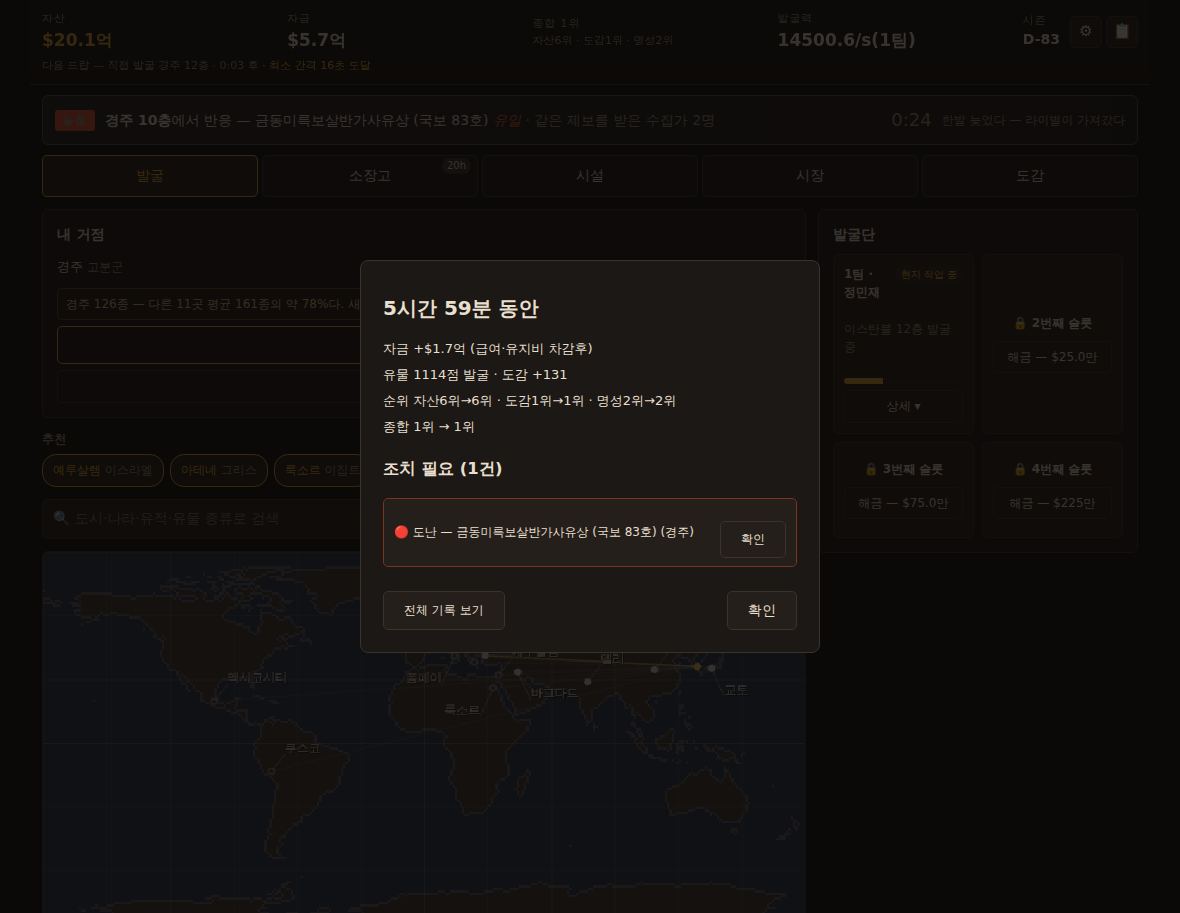
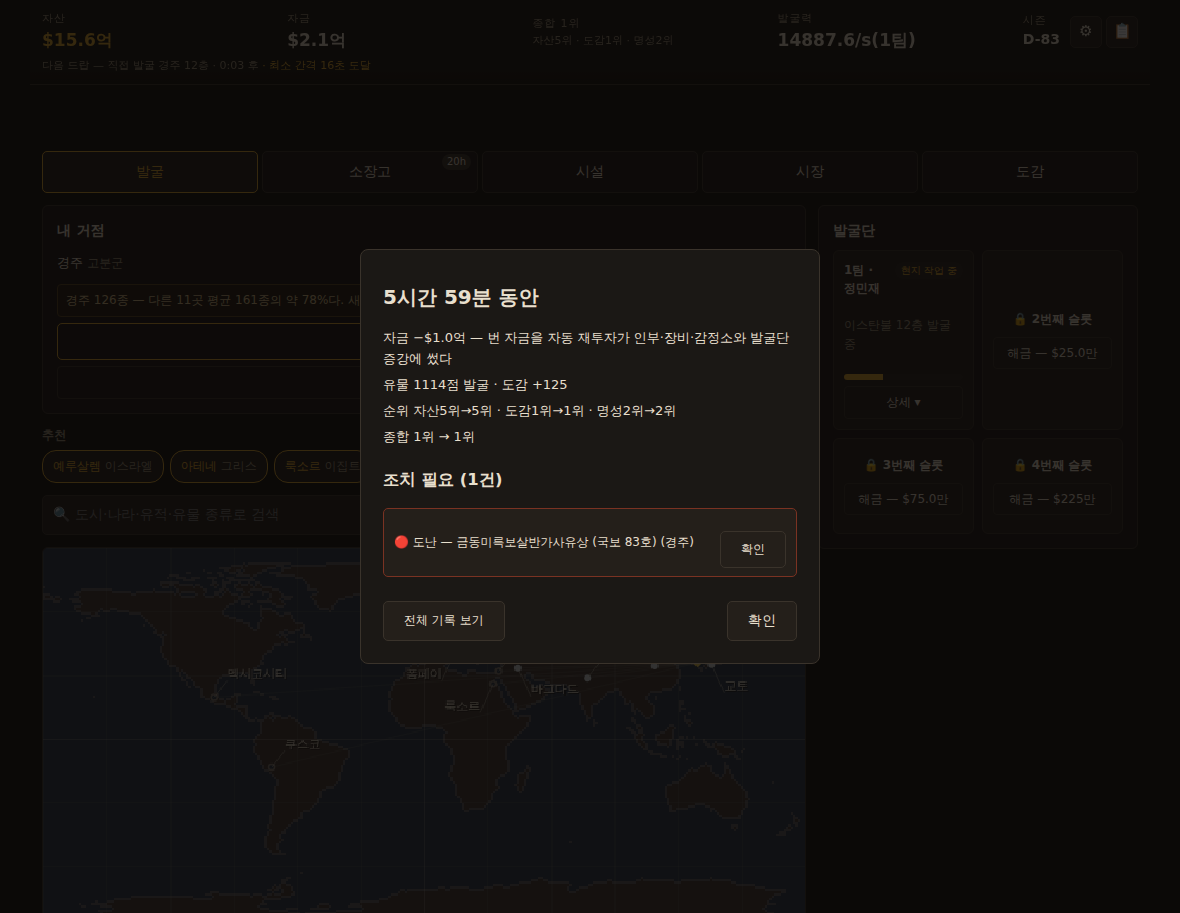
feat(relic-king): v0.6.7 — 긴급 인부로 첫 유일 제보에 대응한다
- 유일 제보에 발굴단이 없고 직접 발굴만 그 자리에 있으면 자금 30%(최소 $2만)로 대응(적중 45%)
- 첫 유일 제보 버튼 0/12 → 12/12, 운영 기준선 10/12 승
- 둘째 팀 문제는 원인이 돈 경쟁으로 밝혀졌고, 두 처방은 도감 −13%·1시간 공백 증가로 버렸다(eval §36.2)
- QA 10종·sim 48h(엔딩 16h15m)·play 130/130·smoke 통과, density 결정·패 축은 미달

Claude-Session: https://claude.ai/code/session_01G7MKR8or7ERd5J93qiG8SH

diff --git a/projects/relic-king/app/src/ui/RulesModal.tsx b/projects/relic-king/app/src/ui/RulesModal.tsx
@@ -4,7 +4,7 @@ import {
   THEFT_RECOVERY_BASE, THEFT_RECOVERY_CHANCE_CAP, THEFT_RECOVERY_WINDOW_HOURS, TIER_NAME,
   DROP_INTERVAL_CEILING_SECONDS, DROP_INTERVAL_FLOOR_SECONDS,
   TIP_DURATION_ONSITE_MAX, TIP_DURATION_ONSITE_MIN,
-  TIP_FOCUS_DIG_COST_MULT, TIP_FOCUS_DIG_HIT_CHANCE, TIP_MEAN_INTERVAL,
+  TIP_FOCUS_DIG_COST_MULT, TIP_FOCUS_DIG_HIT_CHANCE, TIP_MEAN_INTERVAL, TIP_EMERGENCY_CREW_FUNDS_SHARE, TIP_EMERGENCY_CREW_MIN_COST, TIP_EMERGENCY_CREW_HIT_CHANCE,
   TIP_MIN_RESPONSE_SECONDS, TIP_PLAYER_HIT, TIP_RIVAL_HIT,
   TIP_DECIDE_AFTER_GRACE_SECONDS, TIP_UNIQUE_ANNOUNCE_WITHIN, TIP_UNRESPONDED_UNIQUE_MULT,
   EYE_RACE_BONUS_MAX, VAULT_CARE_COST_HEADROOM, VAULT_OVERFLOW_CONDITION_DECAY_MULT,
@@ -12,7 +12,7 @@ import {
   CURATOR_RECOVERY_COEFF, tierWeights
 } from "../game/balance";
 import { rivalExpeditions } from "../game/engine";
-import { clock, withJosa } from "../game/format";
+import { clock, usd, withJosa } from "../game/format";
 import { Modal } from "./Modal";
 import type { Game } from "./useGame";
 
@@ -74,7 +74,7 @@ export function RulesModal({ game, onClose }: { game: Game; onClose: () => void 
           <li><strong>첫 승은 보장된다.</strong> 아직 한 번도 이겨 본 적이 없다면, 그 자리에 있는 한 첫 결판은 당신 것이다(유일 제외). 딱 한 번뿐이다.</li>
           <li><strong>유일은 대응해야 승산이 산다.</strong> 다투는 상대가 있는 유일 제보에 아무것도 누르지 않으면 당신의 가중이 {Math.round(TIP_UNRESPONDED_UNIQUE_MULT * 100)}%로 깎인다(경쟁 1명 기준 승산 {Math.round((TIP_PLAYER_HIT * TIP_UNRESPONDED_UNIQUE_MULT) / (TIP_PLAYER_HIT * TIP_UNRESPONDED_UNIQUE_MULT + TIP_RIVAL_HIT) * 100)}%). 금지가 아니라 불리함이다 — 경쟁자가 없는 자리라면 그냥 확보한다. <strong>단 처음 만나는 유일 제보 한 번은 대응하지 않으면 놓친다</strong>(첫 승 보장의 반대쪽 짝이다 — 게임이 첫 세션에 "먼저 도달하면 갖는다"와 "유일은 대응해야 한다"를 한 번씩 가르친다).</li>
           <li>유일이 세상에 드러나면 <strong>{TIP_UNIQUE_ANNOUNCE_WITHIN}초 안에 제보로 알린다</strong>(연달아 뜨지는 않는다). {TIER_NAME[TIP_WORLDWIDE_MIN_TIER]} 이상은 그 거점에 아무도 살지 않아도 <strong>가장 가까운 수집가가 반응한다</strong>.</li>
-          <li>on_site 팀이 있으면(또는 직접 발굴이 그 자리를 파고 있으면) 자동으로 {Math.round(TIP_PLAYER_HIT * 100)}% 확률로 판정된다 — <strong>같은 제보를 받은 라이벌도 {Math.round(TIP_RIVAL_HIT * 100)}%로 같다.</strong> 아무것도 안 누르면 공정한 레이스이고, [집중 굴착]을 누르면 {Math.round(TIP_FOCUS_DIG_HIT_CHANCE * 100)}%로 오르는 대신 그 원정의 원정비가 {TIP_FOCUS_DIG_COST_MULT}배가 된다. <strong>진귀·국보 제보는 현지 팀이 있으면 [집중 굴착]이 자동으로 걸리고, 유일만 직접 누른다.</strong> 한 원정의 배수는 곱해지지 않고 가장 큰 것 하나만 붙으며(집중 {TIP_FOCUS_DIG_COST_MULT}배·급파 {EMERGENCY_DISPATCH_COST_MULT}배), 정산액은 보유 자금을 넘지 않는다.</li>
+          <li>on_site 팀이 있으면(또는 직접 발굴이 그 자리를 파고 있으면) 자동으로 {Math.round(TIP_PLAYER_HIT * 100)}% 확률로 판정된다 — <strong>같은 제보를 받은 라이벌도 {Math.round(TIP_RIVAL_HIT * 100)}%로 같다.</strong> 아무것도 안 누르면 공정한 레이스이고, [집중 굴착]을 누르면 {Math.round(TIP_FOCUS_DIG_HIT_CHANCE * 100)}%로 오르는 대신 그 원정의 원정비가 {TIP_FOCUS_DIG_COST_MULT}배가 된다. <strong>진귀·국보 제보는 현지 팀이 있으면 [집중 굴착]이 자동으로 걸리고, 유일만 직접 누른다.</strong> 한 원정의 배수는 곱해지지 않고 가장 큰 것 하나만 붙으며(집중 {TIP_FOCUS_DIG_COST_MULT}배·급파 {EMERGENCY_DISPATCH_COST_MULT}배), 정산액은 보유 자금을 넘지 않는다. <strong>유일 제보에 발굴단이 없고 직접 발굴만 그 자리에 있으면 [긴급 인부]로 대응한다</strong> — 값은 현재 자금의 {Math.round(TIP_EMERGENCY_CREW_FUNDS_SHARE * 100)}%(최소 {usd(TIP_EMERGENCY_CREW_MIN_COST)})이고, 적중은 {Math.round(TIP_EMERGENCY_CREW_HIT_CHANCE * 100)}%다(현지 팀의 [집중 굴착]은 {Math.round(TIP_FOCUS_DIG_HIT_CHANCE * 100)}%).</li>
           <li>[급파]는 유휴 발굴단을 압축 이동시간 {EMERGENCY_DISPATCH_MAX_REACH_HOURS}시간 이내인 거점에 즉시 출발시킨다. 원정비 {EMERGENCY_DISPATCH_COST_MULT}배·미스헵 확률 {EMERGENCY_DISPATCH_MISHAP_MULT}배가 붙는다. 배너가 사라진 뒤에도 도착하면 판정은 그대로 유효하다 — 세계 재고가 남아 있는지가 유일한 기준이다.</li>
           <li><strong>라이벌은 제보 레이스 밖에서 유일 유물을 가져가지 못한다.</strong> 오프라인 중에는 진귀 이하만 가져간다 — 영구 상실은 당신이 그 자리에 있었을 때만 일어난다.</li>
         </ul>

diff --git a/projects/relic-king/app/src/game/engine.ts b/projects/relic-king/app/src/game/engine.ts
@@ -30,7 +30,7 @@ import {
   TEAM_AUTO_GEAR_MIN_FUNDS, TEAM_AUTO_UPGRADE_SLOT_RESERVE_MULT, TEAM_AUTO_WORKER_MIN_FUNDS,
   TIER_STOCK_PER_SPECIES, TIP_DECIDE_AFTER_GRACE_SECONDS, TIP_DURATION_ONSITE_MAX, TIP_DURATION_ONSITE_MIN,
   TIP_FIRST_DELAY, TIP_FIRST_UNIQUE_TAUGHT, TIP_FIRST_WIN_GUARANTEED, TIP_UNIQUE_PRIORITY,
-  TIP_UNIQUE_REQUIRES_RESPONSE,
+  TIP_UNIQUE_REQUIRES_RESPONSE, TIP_EMERGENCY_CREW_FUNDS_SHARE, TIP_EMERGENCY_CREW_MIN_COST, TIP_EMERGENCY_CREW_HIT_CHANCE,
   TIP_UNIQUE_ANNOUNCE_WITHIN, TIP_UNRESPONDED_UNIQUE_MULT, TIP_WORLDWIDE_MIN_TIER,
   TIP_FOCUS_DIG_COST_MULT, TIP_FOCUS_DIG_HIT_CHANCE, TIP_MEAN_INTERVAL, TIP_PLAYER_HIT,
   TIP_MIN_RESPONSE_SECONDS, TIP_RETRY_INTERVAL, TIP_RIVAL_HIT, TIP_TIER_WEIGHT,
@@ -976,7 +976,7 @@ function rollDrop(
         owner === "player"
           ? Math.min(
               EYE_HIT_CHANCE_CAP,
-              (raceTarget.focused ? TIP_FOCUS_DIG_HIT_CHANCE : TIP_PLAYER_HIT) *
+              (raceTarget.focused ? (w.tip?.crewed && w.tip.artifactId === raceTarget.artifactId ? TIP_EMERGENCY_CREW_HIT_CHANCE : TIP_FOCUS_DIG_HIT_CHANCE) : TIP_PLAYER_HIT) *
                 uniquePenalty * eyeRaceMult(w, site)
             )
           : TIP_RIVAL_HIT;
@@ -1463,6 +1463,32 @@ export function focusDig(w: World, teamId: string): boolean {
   if (!team || team.status !== "on_site" || team.targetSite !== w.tip.site) return false;
   w.tip.focused = true;
   applyTipCostMult(team, TIP_FOCUS_DIG_COST_MULT);
+  return true;
+}
+
+/**
+ * 긴급 인부의 값과 쓸 수 있는지(v0.6.7, `TIP_EMERGENCY_CREW_FUNDS_SHARE` 주석 참조). 조건은 셋이다 —
+ * 결판 전인 **유일** 제보이고, 아직 대응하지 않았고, 직접 발굴이 그 거점의 그 층에 닿아 있으며,
+ * 그 자리에 현지 발굴단이 없다(있으면 [집중 굴착]이 그 몫이다). 배너·정책·계측이 이 함수 하나를 쓴다.
+ */
+export function emergencyCrewOffer(w: World): { cost: number; affordable: boolean } | null {
+  const tip = w.tip;
+  if (!tip || tip.resolved || tip.focused) return null;
+  if (ARTIFACT_BY_ID[tip.artifactId].tier !== 4) return null;
+  if (w.activeSite !== tip.site || w.sites[tip.site].layer < tip.layer) return null;
+  if (w.teams.some((t) => t.status === "on_site" && t.targetSite === tip.site)) return null;
+  const cost = Math.max(TIP_EMERGENCY_CREW_MIN_COST, Math.round(w.funds * TIP_EMERGENCY_CREW_FUNDS_SHARE));
+  return { cost, affordable: w.funds >= cost };
+}
+
+/** 긴급 인부를 부른다 — 자금을 내고 이 유일 제보에 대응한 것으로 인정받는다(적중 `TIP_EMERGENCY_CREW_HIT_CHANCE`) */
+export function hireEmergencyCrew(w: World): boolean {
+  const offer = emergencyCrewOffer(w);
+  if (!offer || !offer.affordable || !w.tip) return false;
+  w.funds -= offer.cost;
+  w.tip.focused = true;
+  w.tip.crewed = true;
+  log(w, "system", `긴급 인부를 불렀다(${usd(offer.cost)}) — ${withJosa(ARTIFACT_BY_ID[w.tip.artifactId].name, "을를")} 직접 쫓는다.`);
   return true;
 }
 
@@ -2456,7 +2482,7 @@ export function tipRaceOdds(w: World, tip: Tip): TipRaceOdds {
   const eye = eyeRaceMult(w, tip.site);
   const pw =
     racing
-      ? (tip.focused ? TIP_FOCUS_DIG_HIT_CHANCE : TIP_PLAYER_HIT) *
+      ? (tip.focused ? (tip.crewed ? TIP_EMERGENCY_CREW_HIT_CHANCE : TIP_FOCUS_DIG_HIT_CHANCE) : TIP_PLAYER_HIT) *
         (firstUniqueLesson ? 0 : needsResponse ? TIP_UNRESPONDED_UNIQUE_MULT : 1) * eye
       : 0;
   const contenders = tipRivalContenders(w, tip).length;
@@ -2502,7 +2528,7 @@ function decideTipRace(w: World, rng: Rng, report: StepReport) {
       ? 0
       : TIP_UNRESPONDED_UNIQUE_MULT;
   const pw = racing
-    ? (tip.focused ? TIP_FOCUS_DIG_HIT_CHANCE : TIP_PLAYER_HIT) * uniquePenalty * eyeRaceMult(w, tip.site)
+    ? (tip.focused ? (tip.crewed ? TIP_EMERGENCY_CREW_HIT_CHANCE : TIP_FOCUS_DIG_HIT_CHANCE) : TIP_PLAYER_HIT) * uniquePenalty * eyeRaceMult(w, tip.site)
     : 0;
   // 라이벌 가중은 **머릿수**다 — 유예 전 드랍 판정에서 라이벌 k명이 각자 굴리는
   // 것과 같은 셈이고, 그래서 제보마다 경쟁도가 다르다(1명이면 반반, 4명이면 20%).

diff --git a/projects/relic-king/app/src/game/balance.ts b/projects/relic-king/app/src/game/balance.ts
@@ -384,7 +384,9 @@ export const TIP_UNRESPONDED_UNIQUE_MULT = 1 / 3;
  * 게임"이라는 걸 배우지 못한 채 첫 세션을 끝낸다.
  *
  * 숨기지 않는다: 그 배너는 "대응하지 않으면 놓친다"를 그대로 적고, [집중 굴착]·
- * [급파] 버튼이 같은 줄에 있다. 누르면 정상 승산(60% 대 라이벌 머릿수×28%)으로
+ * [급파]·[긴급 인부] 버튼이 같은 줄에 있다. **(v0.6.7 정정)** v0.6.6까지는 첫 유일 제보 순간에
+ * 발굴단이 전부 이동 중이라 앞의 두 버튼이 뜨지 않았다 — 24/24 시드에서 버튼 없이 졌다
+ * (`notes/v066-midpass-review.md` §1.1). 직접 발굴의 [긴급 인부]가 그 빈자리를 채운다. 누르면 정상 승산(60% 대 라이벌 머릿수×28%)으로
  * 겨루고, 실제로 이길 수 있다 — **결과가 정해진 연출이 아니라 대응이 필요한 판**이다.
  */
 export const TIP_FIRST_UNIQUE_TAUGHT = true;
@@ -517,6 +519,27 @@ export const TIP_DURATION_ONSITE_MIN = 60;
 export const TIP_DURATION_ONSITE_MAX = 150;
 export const TIP_FOCUS_DIG_HIT_CHANCE = 0.60;
 export const TIP_FOCUS_DIG_COST_MULT = 2.0;
+/**
+ * **긴급 인부**(v0.6.7, `notes/v066-midpass-review.md` §1.1) — 유일(T4) 제보가 **직접 발굴이 파고
+ * 있는 거점**에 떴는데 그 자리에 발굴단이 없을 때, 자금을 내고 대응으로 인정받는다.
+ *
+ * 왜 필요한가. 유일은 대응해야 가진다(`TIP_UNIQUE_REQUIRES_RESPONSE`). 그런데 대응 수단이
+ * 발굴단([집중 굴착]·[급파])뿐이라, 첫 유일 제보(3분 9초~6분 24초)에는 발굴단이 전부 이동 중이어서
+ * **24/24 시드에서 버튼 없이 졌다.** `TIP_FIRST_UNIQUE_TAUGHT`가 가르치려던 "대응하면 이길 수 있다"가
+ * 성립할 자리가 없었다.
+ *
+ * 값은 **현재 자금의 비율**이다. 쌓아 둔 돈이 많을수록 비싸고, 모자라면 소장품을 팔아야 한다 —
+ * "팔면 강해지고 순위는 떨어진다"는 핵심 딜레마를 가장 무거운 순간에 건다. 최소액은 첫 5분
+ * 자금 수준(수만 달러)에 맞췄다. 효과는 [집중 굴착]과 같다(적중 60%, 대응 인정).
+ */
+export const TIP_EMERGENCY_CREW_FUNDS_SHARE = 0.3;
+export const TIP_EMERGENCY_CREW_MIN_COST = 20_000;
+/**
+ * 긴급 인부의 적중(v0.6.7). [집중 굴착](60%)보다 낮다 — 임시로 부른 인부는 발굴단이 아니다.
+ * 60%로 두면 첫 10분에 한 번도 지지 않는 시드가 생겼고(12시드 중 1), 무엇보다 "발굴단을 곁에
+ * 두는 것"의 값이 사라진다. 28%(아무것도 안 함)와 60%(현지 팀 집중) 사이에 둔다.
+ */
+export const TIP_EMERGENCY_CREW_HIT_CHANCE = 0.45;
 export const EMERGENCY_DISPATCH_MAX_REACH_HOURS = 4;
 export const EMERGENCY_DISPATCH_TRAVEL_MULT = 1 / 3;
 export const EMERGENCY_DISPATCH_COST_MULT = 3.0;

diff --git a/projects/relic-king/app/src/sim/qa_expedition.ts b/projects/relic-king/app/src/sim/qa_expedition.ts
@@ -12,8 +12,7 @@
  */
 import { EXPEDITION_ONSITE_RATIO, EXPEDITION_SPEED_KMH, distanceKm } from "../game/balance";
 import {
-  advance, buyTeamGear, buyTeamWorker, createTeam, createWorld, dispatchExpedition, focusDig, hireForeman
-} from "../game/engine";
+  advance, buyTeamGear, buyTeamWorker, createTeam, createWorld, dispatchExpedition, focusDig, hireForeman, emergencyCrewOffer, hireEmergencyCrew } from "../game/engine";
 import { ARTIFACTS } from "../game/artifacts";
 import type { SiteId, Tip, World } from "../game/types";
 
@@ -206,6 +205,28 @@ console.log("\n──────── 제보 대응 배수는 곱해지지 않
   advance(w, 30, false, 10);
   check(`자금 0으로 귀환 — 원정비 정산 뒤에도 자금이 음수가 아니다(실측 $${Math.round(w.funds)})`,
     team.status === "idle" && w.funds >= 0);
+}
+
+// ── 긴급 인부(v0.6.7, `notes/v066-midpass-review.md` §1.1) ──
+console.log("\n──────── 긴급 인부 — 발굴단 없는 유일 제보에 직접 발굴로 대응한다 ────────");
+{
+  const w = createWorld();
+  const home = w.activeSite;
+  const a = ARTIFACTS.find((x) => x.site === home && x.tier === 4)!;
+  w.sites[home].layer = Math.max(w.sites[home].layer, a.minLayer);
+  for (const t of w.teams) t.status = "traveling_out";
+  w.tip = { artifactId: a.id, site: home, layer: a.minLayer, remain: 120, rivals: [], focused: false, openedAt: w.t, resolved: null };
+  w.funds = 10_000;
+  const poor = emergencyCrewOffer(w);
+  check(`자금 $1만 — 제안은 뜨지만 살 수 없다(최소 $${poor?.cost})`, !!poor && !poor.affordable && !hireEmergencyCrew(w));
+  w.funds = 1_000_000;
+  const offer = emergencyCrewOffer(w)!;
+  check(`자금 $100만 — 값은 자금의 30%다(실측 $${offer.cost})`, offer.affordable && offer.cost === 300_000);
+  check("긴급 인부를 부르면 대응으로 인정되고 자금이 빠진다",
+    hireEmergencyCrew(w) && !!w.tip?.focused && !!w.tip?.crewed && w.funds === 700_000);
+  check("한 번 부르면 다시 제안하지 않는다", emergencyCrewOffer(w) === null);
+  w.tip = { ...w.tip!, focused: false, crewed: false, artifactId: ARTIFACTS.find((x) => x.site === home && x.tier === 3)!.id };
+  check("유일이 아니면 제안하지 않는다", emergencyCrewOffer(w) === null);
 }
 
 console.log(failed === 0 ? "\n✅ qa_expedition 전체 통과" : `\n❌ qa_expedition ${failed}건 실패`);

diff --git a/projects/relic-king/app/src/sim/density.ts b/projects/relic-king/app/src/sim/density.ts
@@ -48,8 +48,7 @@ import { ARTIFACT_BY_ID } from "../game/artifacts";
 import {
   advance, codexProgress, createPersistentRecord, createWorld, digPower, fullRanking, ownedSiteCap,
   grantStartingTeam, isGhostId,
-  playerCanReactAt, runAutoRoutine, teamHomeSite, tipPoolStages
-} from "../game/engine";
+  playerCanReactAt, runAutoRoutine, teamHomeSite, tipPoolStages, emergencyCrewOffer } from "../game/engine";
 import { travelHoursOneWay } from "../game/expedition";
 import { distanceKm } from "../game/sites";
 import { duration } from "../game/format";
@@ -145,8 +144,10 @@ type TipLike = Tip & { autoFocused?: boolean };
  * - 레거시 직접 발굴만 그 자리에 있으면 버튼이 없다(추격 중 통보).
  * - 결판이 난 배너(`resolved`)에는 버튼이 없다.
  */
-export function tipButton(w: World, tip: TipLike): "focus" | "emergency" | null {
+export function tipButton(w: World, tip: TipLike): "focus" | "emergency" | "crew" | null {
   if (tip.resolved) return null;
+  // 긴급 인부(v0.6.7) — 유일 제보에 발굴단이 없고 직접 발굴만 그 자리에 있을 때. 살 수 있을 때만 버튼이다.
+  if (w.tip === tip) { const crew = emergencyCrewOffer(w); if (crew?.affordable) return "crew"; }
   const onSite = w.teams.some((t) => t.status === "on_site" && t.targetSite === tip.site);
   if (onSite) return tip.autoFocused ? null : "focus";
   const dist = distanceKm(teamHomeSite(w), tip.site);
@@ -244,7 +245,7 @@ class DecisionWatcher {
         this.tipCounted = true;
         const tier = ARTIFACT_BY_ID[tip.artifactId]?.tier ?? 0;
         // 진귀 이하의 [집중 굴착]은 원정당 한 번 누르면 모든 축에서 이긴다(§5.2)
-        const kind: DecisionKind = button === "emergency" || tier >= 4 ? "tip" : "tipFocus";
+        const kind: DecisionKind = button === "emergency" || button === "crew" || tier >= 4 ? "tip" : "tipFocus";
         this.push(t, kind, this.tipLegacy, `${tipDetail(tip)} [${button === "focus" ? "집중 굴착" : "급파"}]`);
         this.tipLegacy = false;
       }

diff --git a/projects/relic-king/app/src/ui/TipBanner.tsx b/projects/relic-king/app/src/ui/TipBanner.tsx
@@ -2,12 +2,12 @@ import { useEffect, useRef, useState } from "react";
 import { ARTIFACT_BY_ID } from "../game/artifacts";
 import {
   EMERGENCY_DISPATCH_MAX_REACH_HOURS, EMERGENCY_DISPATCH_TRAVEL_MULT, SITE_BY_ID, TIER_NAME,
-  TIP_MIN_RESPONSE_SECONDS, TIP_PLAYER_HIT
+  TIP_MIN_RESPONSE_SECONDS, TIP_PLAYER_HIT, TIP_EMERGENCY_CREW_HIT_CHANCE
 } from "../game/balance";
-import { teamHomeSite, tipRaceOdds } from "../game/engine";
+import { emergencyCrewOffer, teamHomeSite, tipRaceOdds } from "../game/engine";
 import { travelHoursOneWay } from "../game/expedition";
 import { distanceKm } from "../game/sites";
-import { clock } from "../game/format";
+import { clock, usd } from "../game/format";
 import { TIER_COLOR } from "../render/palette";
 import type { ExpeditionTeam, Foreman, Tip, World } from "../game/types";
 import { playCue } from "./sound";
@@ -146,6 +146,23 @@ function TipAction({ game, tip, big }: { game: Game; tip: Tip; big?: boolean }) 
         급파
       </button>
     );
+  }
+  // 유일인데 발굴단이 없고 직접 발굴만 그 자리에 있으면 긴급 인부로 대응한다(v0.6.7).
+  // 값은 현재 자금의 비율이라, 모자라면 소장품을 팔아야 한다 — 그 사실을 그대로 적는다.
+  const crew = emergencyCrewOffer(game.world);
+  if (crew) {
+    return crew.affordable ? (
+      <button type="button" className={cls} onClick={game.hireEmergencyCrew}>
+        긴급 인부 {usd(crew.cost)}
+      </button>
+    ) : (
+      <span className="tip-crew-short small">
+        긴급 인부 {usd(crew.cost)} — 자금이 {usd(crew.cost - game.world.funds)} 모자란다. 소장품을 팔면 부를 수 있다
+      </span>
+    );
+  }
+  if (tip.focused && legacyOnSite && ARTIFACT_BY_ID[tip.artifactId].tier === 4) {
+    return <span className="tip-racing small">긴급 인부가 쫓는 중 — 적중 {Math.round(TIP_EMERGENCY_CREW_HIT_CHANCE * 100)}%</span>;
   }
   if (legacyOnSite) {
     return (

diff --git a/projects/relic-king/app/src/sim/policy.ts b/projects/relic-king/app/src/sim/policy.ts
@@ -16,7 +16,7 @@ import {
 import {
   advance, auctionHouseOf, buildAuctionHouse, buildMuseum, buyHumidityLevel, buyMuseumMarketing, buyRestorationLevel, buySecurityLevel, buyTeamGear, buyTeamWorker, buyVaultLevel, codexScore, createTeam, digPower, dispatchExpedition, displayArtifact, hireAuctioneer, hireCurator, hireForeman, listAtAuction, museumOf, museumSlotCount, runAutoRoutine, sellArtifactCopies, switchSite, teamHomeSite, unlockSite, unlockTeamSlot, upgradeAuctionGrade, upgradeMuseumGrade, spareVaultItems } from "../game/engine";
 // 제보 대응(v0.6.6)은 따로 가져온다 — 위 import 줄은 시설·경제 쪽 변경이 자주 닿는다.
-import { emergencyDispatch, focusDig } from "../game/engine";
+import { emergencyDispatch, focusDig, hireEmergencyCrew } from "../game/engine";
 import type { SiteId, World } from "../game/types";
 
 export const STEP_EARLY = 2; // 초반 1200초(드랍 간격·20분 통계)는 v0.1과 동일한 정밀도를 유지한다
@@ -316,6 +316,8 @@ export function respondToUniqueTip(w: World) {
   for (const t of w.teams) {
     if (t.status === "idle" && emergencyDispatch(w, t.id)) return;
   }
+  // 발굴단이 닿지 않으면 직접 발굴로 쫓는다 — 긴급 인부(v0.6.7). 살 수 있을 때만 부른다.
+  hireEmergencyCrew(w);
 }
 
 /**
@@ -337,6 +339,8 @@ export function actExpansion(w: World) {
   const tip = w.tip;
   if (tip && w.sites[tip.site].unlocked && w.sites[tip.site].layer >= tip.layer) switchSite(w, tip.site);
   else switchSite(w, bestSite(w));
+  // 직접 발굴을 제보 거점으로 옮긴 뒤에야 긴급 인부 자격이 생긴다 — 한 번 더 본다(이미 대응했으면 아무것도 안 한다).
+  respondToUniqueTip(w);
 
   ensureTeams(w);
   redispatchIdleTeams(w);

diff --git a/projects/relic-king/app/src/ui/useGame.ts b/projects/relic-king/app/src/ui/useGame.ts
@@ -5,7 +5,7 @@ import {
   advance, applyOffline, auctionSpares, blindSell, blindSellAll, buyBlackMarketListing, buyGear,
   buyHumidityLevel, buyLab, buyMuseumMarketing, buyRestorationLevel, buySecurityLevel, buyTeamGear, buyTeamWorker,
   buyVaultLevel, buyWorker, buildAuctionHouse, buildMuseum, click, createPersistentRecord, createTeam,
-  createWorld, dispatchExpedition, displayArtifact, emergencyDispatch, focusDig, fullRanking, sampleRanks,
+  createWorld, dispatchExpedition, displayArtifact, emergencyDispatch, focusDig, fullRanking, hireEmergencyCrew, sampleRanks,
   hireAuctioneer, hireCurator, hireForeman, listAtAuction, listManyAtAuction, relocateBase, runAutoRoutine, sellArtifactCopies,
   sellSpares, sellTierAtMost, sellVaultItems, setRoutine, switchSite, undisplayArtifact, unlockSite, unlockTeamSlot,
   upgradeAuctionGrade, upgradeMuseumGrade
@@ -372,6 +372,7 @@ export function useGame() {
     dispatch: (teamId: string, target: SiteId) => act((w) => dispatchExpedition(w, teamId, target)),
     emergencyDispatch: (teamId: string) => act((w) => emergencyDispatch(w, teamId)),
     focusDig: (teamId: string) => act((w) => focusDig(w, teamId)),
+    hireEmergencyCrew: () => act(hireEmergencyCrew),
     setRoutine: (teamId: string, enabled: boolean, target?: SiteId | "auto") =>
       act((w) => setRoutine(w, teamId, enabled, target)),
 

diff --git a/projects/relic-king/app/src/game/types.ts b/projects/relic-king/app/src/game/types.ts
@@ -280,6 +280,8 @@ export type Tip = {
    *  자동으로 켜진다(`settings.autoFocusTips`). 유일은 늘 수동이라 여기 걸리지 않는다.
    *  `focused`와 같이 켜지며, 화면이 "눌렀다"와 "자동으로 걸렸다"를 가르는 데 쓴다. */
   autoFocused?: boolean;
+  /** 긴급 인부로 대응했는가(v0.6.7) — `focused`와 같이 켜지고, 적중은 `TIP_EMERGENCY_CREW_HIT_CHANCE`다 */
+  crewed?: boolean;
   /** 배너가 뜬 시각(world.t, 초). `TIP_MIN_RESPONSE_SECONDS` 반응 유예의 기준이다(v0.6) */
   openedAt: number;
   /** 결판이 난 뒤의 상태. 나도 배너는 수명을 다 산다 — 결과를 보여 주고 닫힌다

diff --git a/projects/relic-king/eval.md b/projects/relic-king/eval.md
@@ -3452,3 +3452,60 @@ C축(각자 수식에 붙었는가)은 첫 판에서도 통과였다. 그런데 
 4. **첫 거점 카드를 무시하면 경주에 남는다.** 방치 정책은 카드를 누르지 않으므로 E 첫 거점 해금이
    도달 못 함이다. 실제 사람은 카드를 본다. 이 축이 사람을 대변하는지는 플레이테스트 몫이다.
 5. 방치 10시간 자산이 $141억에서 $307억이 됐다. 증강 자동화로 방치 플레이도 팀을 키우게 됐기 때문이다.
+
+---
+
+# §36 v0.6.7 — 긴급 인부, 그리고 둘째 팀 문제의 진짜 원인
+
+- 일자: 2026-09-24 · 결정 `notes/decisions.md` G116 · 규격 `spec.md` §16.7
+- 요청: §35.4의 1(첫 유일 제보에 버튼이 없다)과 2(운영 첫 10분 둘째 팀이 밀린다)
+
+## 36.1 첫 유일 제보 — 이길 수 있는 판이 됐다
+
+12시드 × 두 정책, 첫 유일 제보를 끝까지 추적했다 **[실측]**.
+
+| | v0.6.6 | v0.6.7 |
+| --- | --- | --- |
+| 버튼이 뜬 판(방치 세계 기준) | 0/12 | **12/12** |
+| 운영 정책: 긴급 인부를 부른 판 / 이긴 판 | — / 0 | 12 / **10** |
+| 방치 정책(누르지 않음): 이긴 판 | 0 | 0(가르치는 규칙 그대로) |
+| 첫 유일 조우 중앙 | 약 5분 30초 | 5분 52초(운영) · 6분 0초(방치) |
+
+## 36.2 둘째 팀 — 60초 규칙이 원인이 아니었다
+
+§35.4-2는 원인을 "엔진 B가 넣은 60초 간격·박물관 우선 규칙"으로 추정했다. **틀렸다.** 첫 10분을
+초 단위로 따라가 보니(시드 20284674) 원인은 돈 경쟁이었다. 3분 첫 원정 정산이 자금을 거의 다
+가져가고(3:00 자금 $1), 정책은 슬롯($25만)보다 셋째 거점(룩소르 $25만)을 먼저 연다. 둘째 팀은
+10분 44초에야 선다.
+
+고치는 안 두 개를 구현해 5시드 × 10시간으로 쟀다 **[실측]**.
+
+| 안 | 첫 10분 결정(12시드 중앙/최악) | 10시간 도감(5시드 중앙) | 판정 |
+| --- | --- | --- | --- |
+| 기준(긴급 인부만) | 5 / 2 | 1,000 | 채택 |
+| + 정책이 둘째 팀을 셋째 거점보다 먼저 | 5 / 4 | **869**(−13%) | 버림 |
+| + 둘째 슬롯 값 $25만 → $10만 | 7 / 4 | 986 | 버림 — 첫 1시간 결정 공백이 39분으로 늘었다 |
+
+**둘 다 버렸다.** 운영 기준선은 사람이 할 법한 **좋은** 플레이를 대변해야 한다. 둘째 팀을 먼저 꾸리는
+정책은 도감을 13% 깎는다. 게이트를 넘기려고 기준선을 더 나쁜 전략으로 바꾸는 것은 자를 속이는
+일이다. 슬롯 값을 낮추는 안은 게임 쪽 처방이지만, 첫 10분 결정을 앞당기는 대신 첫 1시간 공백을
+늘려 순이익이 없었다. 이 문제는 "좋은 플레이에서는 둘째 팀이 10분 뒤에 온다"는 **설계의 성질**로
+기록하고, 다음 설계 패스(첫 10분에 셋째 거점 대 둘째 팀의 선택을 어떻게 보여 줄 것인가)로 넘긴다.
+
+## 36.3 게이트
+
+| 게이트 | 결과 |
+| --- | --- |
+| `build` · QA 10종 | ✅ migration 89 · season 18 · expedition **22**(긴급 인부 5건 추가) · artifacts 8 · economy 30 · autosell 22 · bulk 19 · pipeline 6 · rivalcard 60 · sprites 6 |
+| `sim --hours 48` | ✅ 엔딩 **16시간 15분**(v0.6.6 16시간 47분) · 원장 보존 · 오프라인 적분 |
+| `play` · `smoke` | ✅ 130/130 · PASS |
+| `playlog` 운영 10시간 | 조작 65회 · 도감 971종 · 자산 $1405억 |
+| `density` 운영(12시드) | ❌ A 10분 최악 11종 · B 1분 0회 · **B 10분 중앙 5·최악 2** · C 패 중앙 1·최악 0 |
+
+- **B 10분:** 유일 대응(`tip`)이 12시드 중 11시드의 첫 10분에 들어왔다. 최악 2회는 둘째 팀이 없는 데다
+  첫 유일 때 긴급 인부를 살 돈이 없던 시드다. 둘째 팀이 10분 안에 서지 않은 시드는 5/12다(§36.2).
+- **C 패가 새로 걸린다.** v0.6.6까지 첫 10분의 패배는 거의 전부 "대응할 수 없어 반드시 지던 첫 유일"
+  이었다. 그 판을 이길 수 있게 만들자, 모든 버튼을 누르는 운영 기준선은 첫 10분에 지지 않는 시드가
+  생겼다. 진귀·국보는 자동 집중(60%)과 첫 승 보장 때문에 좀처럼 지지 않는다. 방치 플레이는 C 패를
+  통과한다(중앙 3·최악 2). **잃는 경험이 "누르지 않은 사람"에게만 온다**는 뜻이고, 이것이 원하는
+  성질인지는 설계 판단이다.

diff --git a/projects/relic-king/changelog.md b/projects/relic-king/changelog.md
@@ -1,5 +1,20 @@
 # Changelog
 
+## 0.6.7 — 긴급 인부
+
+**첫 유일 제보를 이길 수 있게 됐다.** v0.6.6까지 첫 유일 제보는 발굴단이 전부 이동 중이라
+24/24 시드에서 버튼 없이 졌다. 규칙 문서는 "대응하면 이길 수 있는 판"이라고 적고 있었다.
+결정은 `notes/decisions.md` G116, 실측은 `eval.md` §36.
+
+- **[긴급 인부]** — 유일 제보가 직접 발굴 중인 거점에 떴고 그 자리에 발굴단이 없으면, 현재 자금의
+  30%(최소 $2만)를 내고 대응한다. 적중 45%로 현지 팀의 집중(60%)보다 낮다. 돈이 모자라면
+  "소장품을 팔면 부를 수 있다"고 적는다. 팔면 강해지고 순위는 떨어진다는 딜레마가 가장 무거운
+  순간에 걸린다.
+- 첫 유일 제보에 버튼이 뜬 판 0/12 → **12/12**. 운영 기준선은 12판 중 10판을 이긴다.
+- **둘째 팀이 첫 10분에 밀리는 문제는 고치지 않았다.** 원인은 60초 규칙이 아니라 돈 경쟁이었다.
+  고치는 두 안은 도감을 13% 깎거나 첫 1시간 공백을 늘려서 버렸다(`eval.md` §36.2).
+- 엔딩 16시간 47분 → 16시간 15분. `play` 130/130, QA 10종 통과. `density` 결정·패 축은 여전히 미달이다.
+
 ## 0.6.6 — 결정 트리 패스
 
 **선택지의 등급을 바로잡았다. 지배 전략은 자동으로, 함정은 고치고, 무거운 결정에는 숫자를
